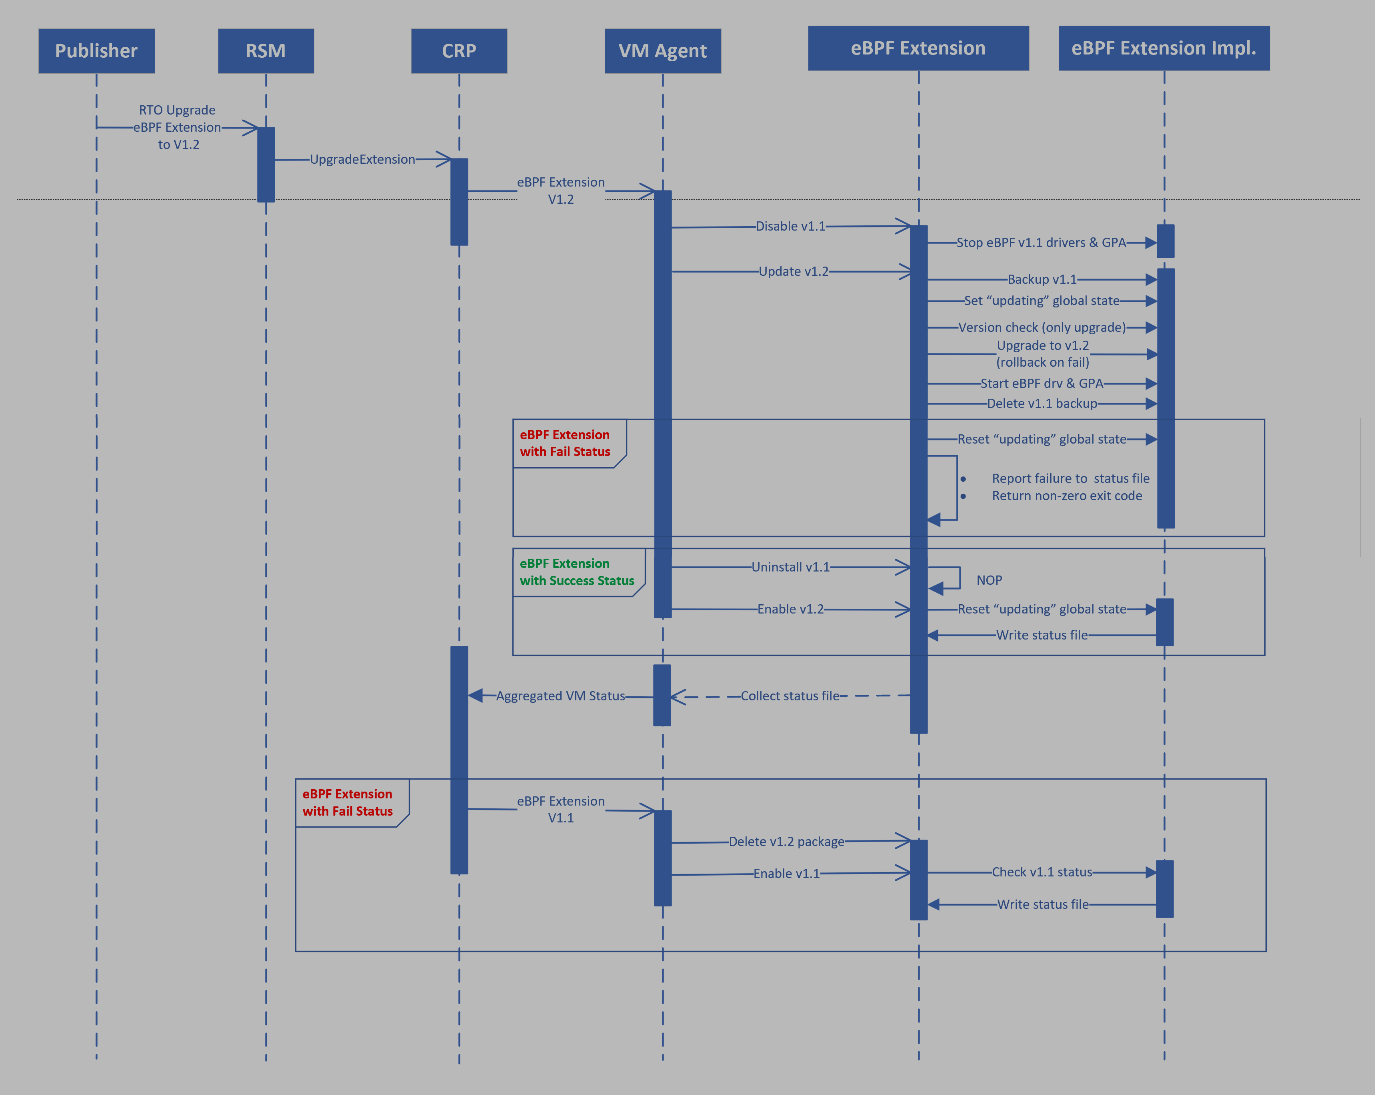
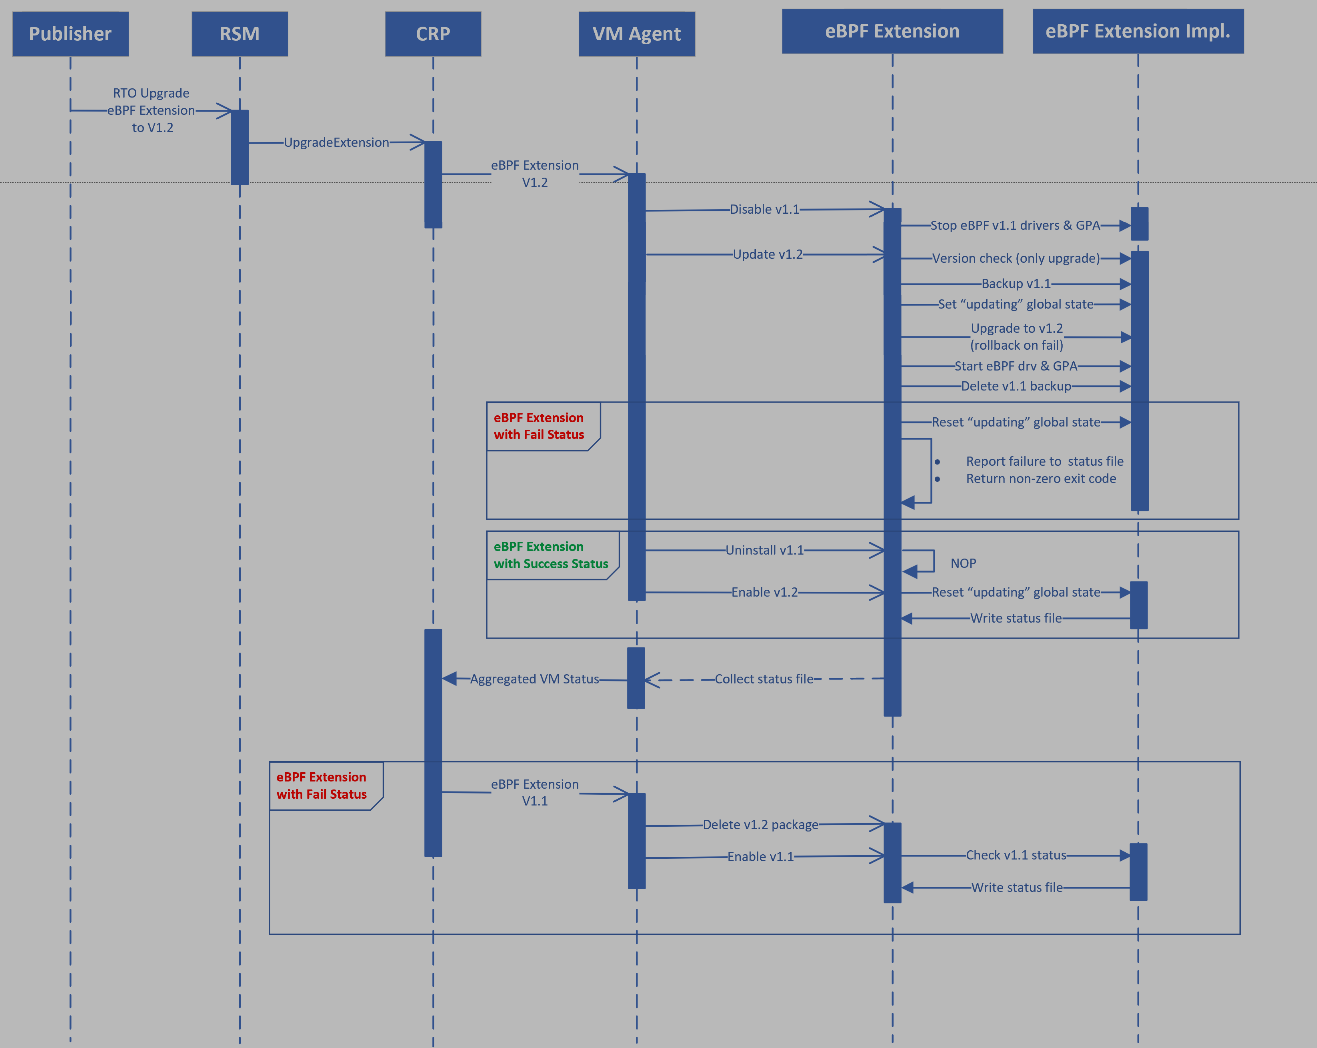
wip

diff --git a/.internal/vm-extension/README.md b/.internal/vm-extension/README.md
@@ -77,8 +77,13 @@ Given the by-design command-sequence invoked by the VM Agent in the 3 main scena
 
 - **Install operation**:
     1. Calls the handler's *install command* ->
+        - Checks if the current VM Extension package contains a newer version of eBPF for Windows (if already installed):
+          - If the version is the same, the install simply returns success.
+          - If the version is lower than the current one, the install is aborted.
+          - If the version is higher than the current one (if an existing version of eBPF is already installed), the install proceeds.
+          - If there is no existing version of eBPF installed, the install proceeds.
         - Backup the current installation (if existing).
-        - Attempt to install/update the current eBPF installation (after checking that it's to a newer version only).
+        - Attempt to install/update the current eBPF installation.
         - Attempt to restart eBPF drivers and GuestProxyAgent service.
         - If any operation fails, attempt to rollback to the backed up installation and fail on exit.
         - Remove the backed up installation.
@@ -90,11 +95,16 @@ Given the by-design command-sequence invoked by the VM Agent in the 3 main scena
 - **Update operation**:
     1. Calls the handler's *disable command* (on the old handler) -> Stop eBPF drivers (and GuestProxyAgent service).
     2. Calls the handler's *update command* (on the new handler) ->
-        - Create a global "updating" state (used later by the *uninstall command* and *enable command*).
+        - Checks if the current VM Extension package contains a newer version of eBPF for Windows (if already installed):
+          - If the version is the same, the update simply returns success.
+          - If the version is lower than the current one, the update is aborted.
+          - If the version is higher than the current one (if an existing version of eBPF is already installed), the update proceeds.
+          - If there is no existing version of eBPF installed, the update proceeds.
+        Create a global "updating" state (used later by the *uninstall command* and *enable command*).
         - Backup the current installation.
-        - Attempt to update the current eBPF installation (after checking that the update is to a newer version only) - If the new version is lower than the current one, the update is aborted.
+        - Attempt to update the current eBPF installation.
         - Attempt to restart eBPF drivers and GuestProxyAgent service.
-        - If any operation fails, attempt to rollback to the backed up installation.
+        - If any operation fails, attempt to rollback to the backed up installation and fail on exit.
         - Remove the global "updating" state.
         - Remove the backed up installation.
         - Write the status file with the result code of the overall operation.
